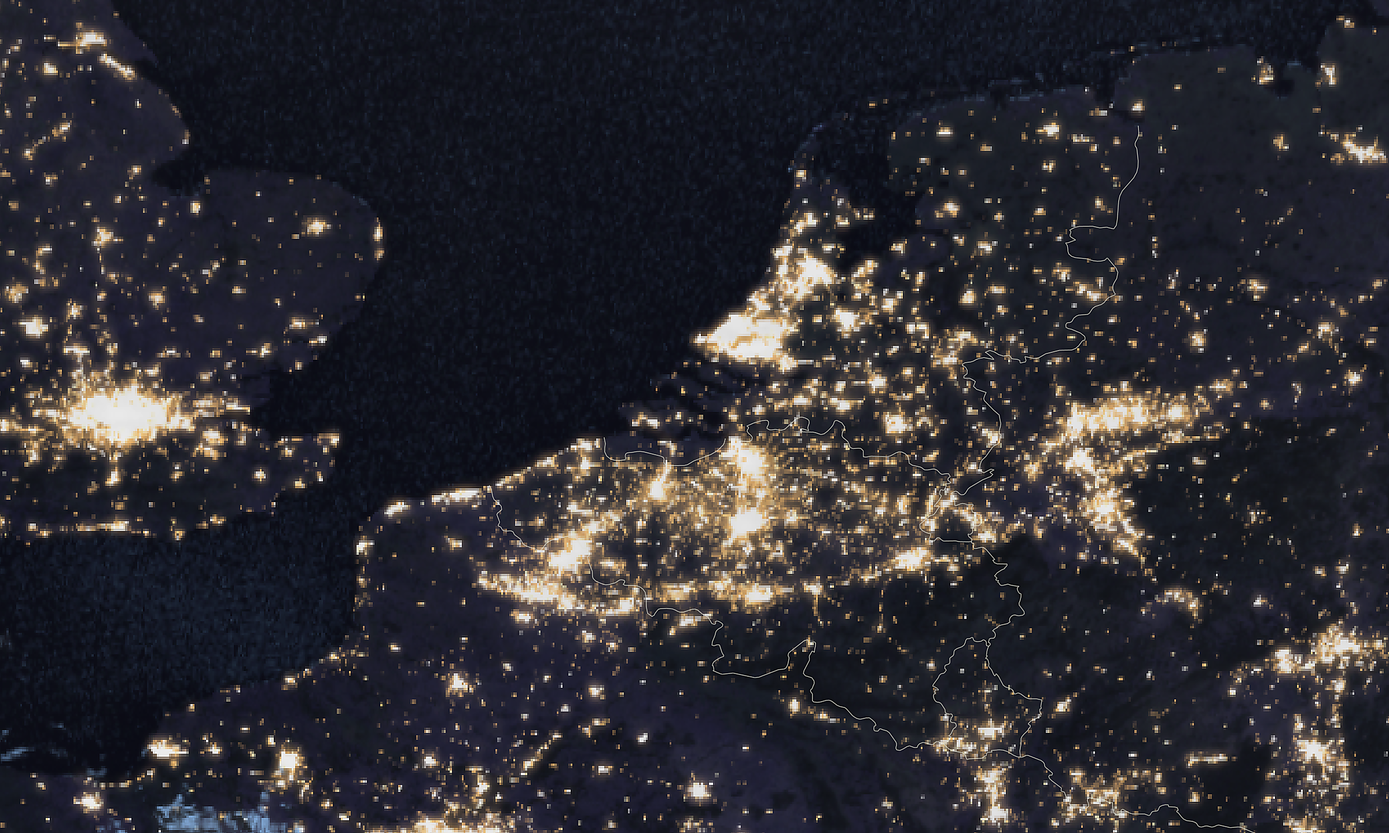
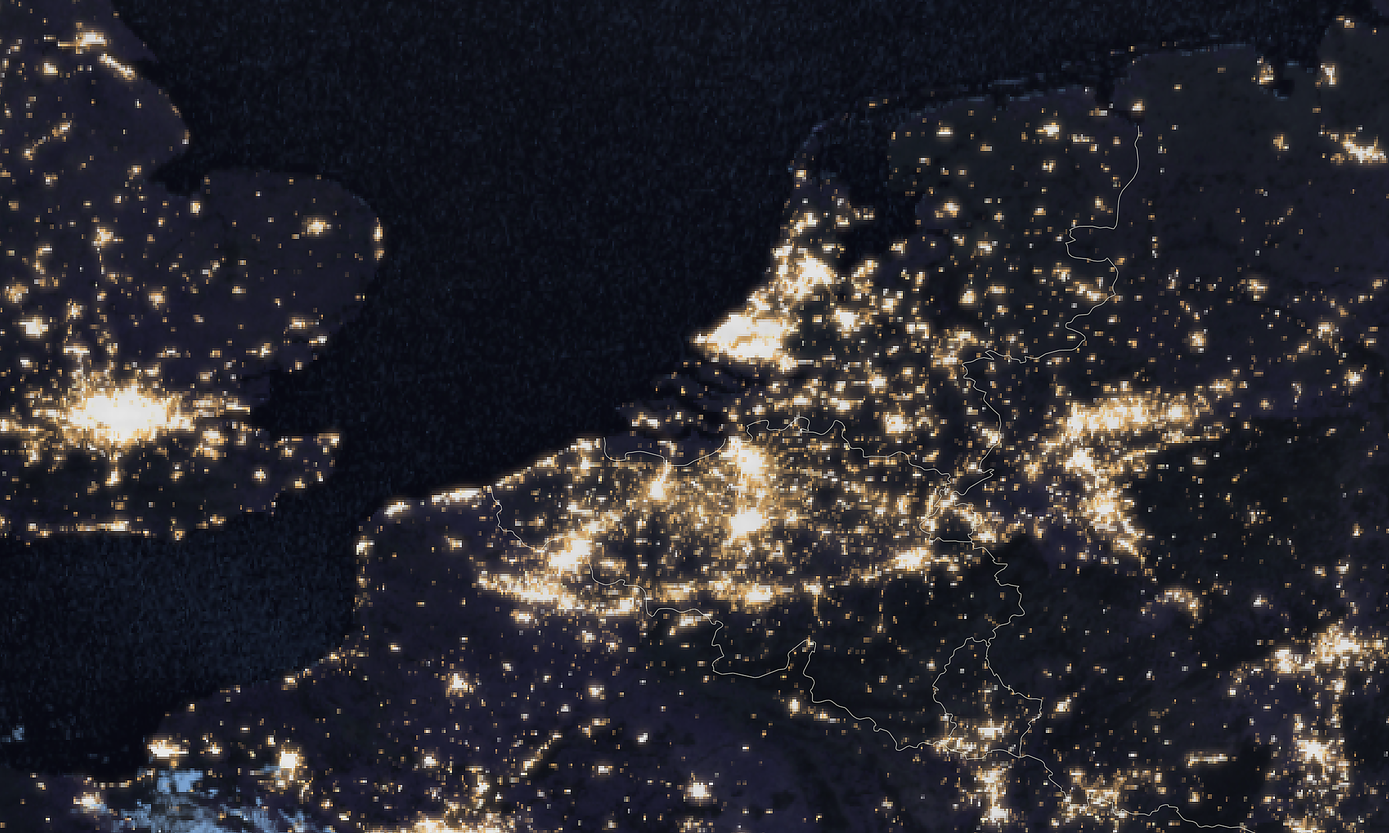
MTG Benelux satellietbeeld update 2026-05-01 05:00

Changed region(s): [[0.0625, 0.9062, 0.25, 1.0], [0.0, 0.875, 0.0312, 0.9062]]

diff --git a/mtg_benelux_meta.js b/mtg_benelux_meta.js
@@ -1,2 +1,2 @@
 const MTG_BENELUX_PRODUCT = "mtg_fd:rgb_geocolour";
-const MTG_BENELUX_TIJD = "2026-05-01T02:20:00Z";
+const MTG_BENELUX_TIJD = "2026-05-01T02:40:00Z";
